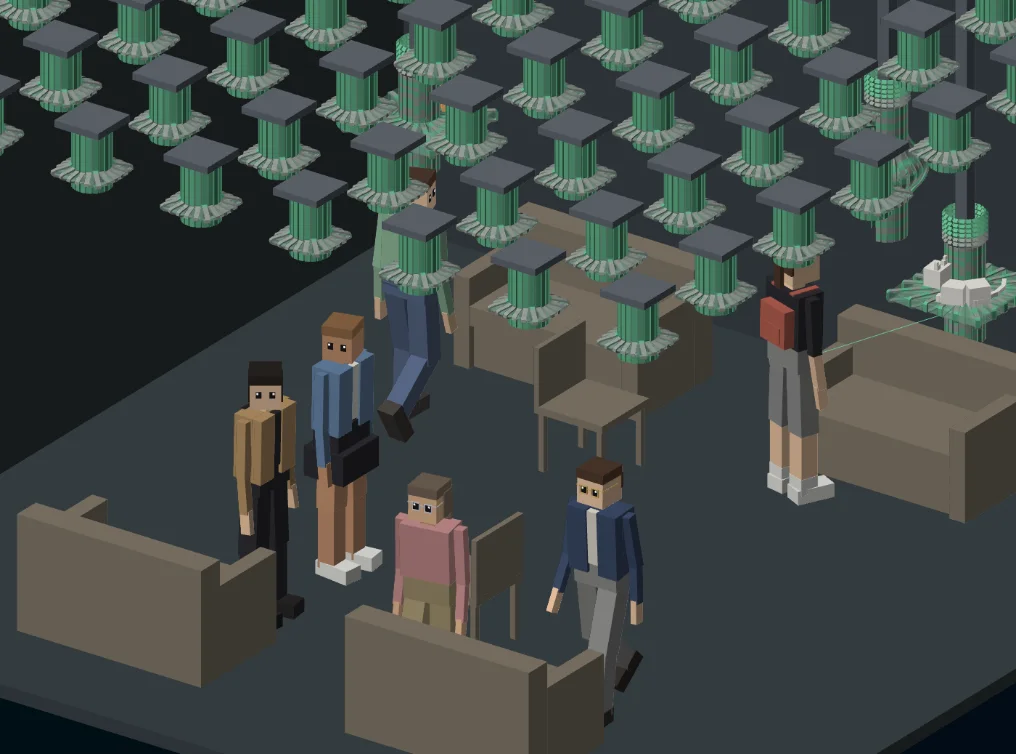
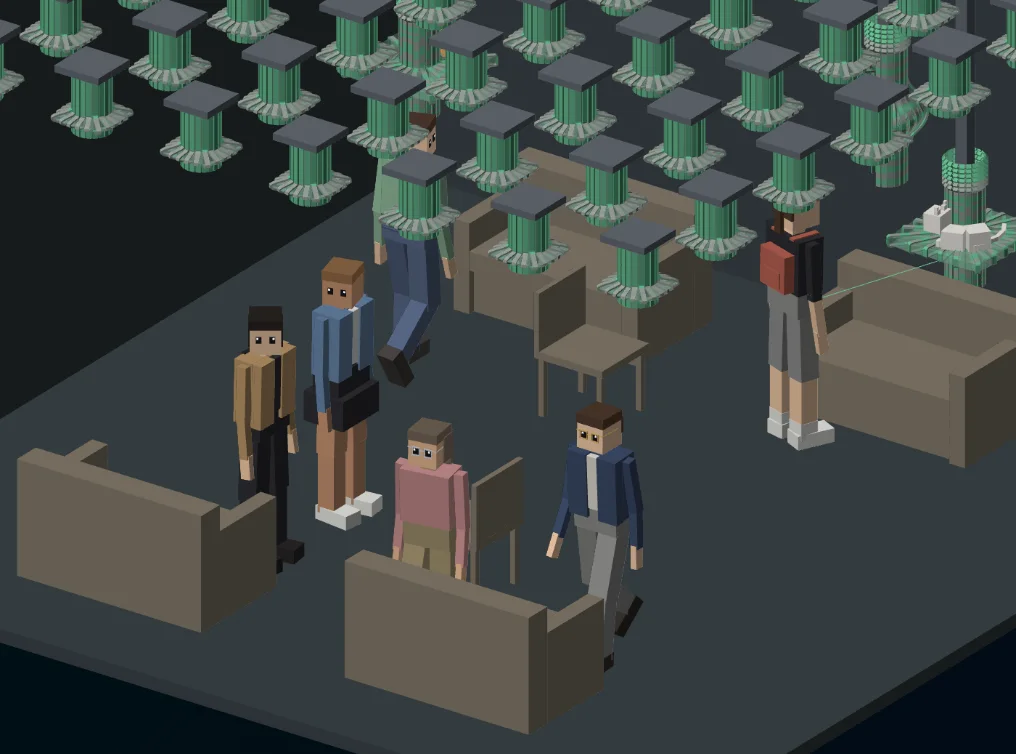
2-15 随机成形后重截案例页两组分镜、改图注
- room-cycle：第 140.8 秒左边沙发旁那台抽中了整圈两层，说明改口径
- two-uses：第 100 秒给猫落的三台都抽中了半圈有顶的两层，猫在其中一台的下台上，图注改写
- MAPPING §78.3、形态方案 §11.7 记录；正文「没有人坐的单元停在 1.05 m」留给作者

Claude-Session: https://claude.ai/code/session_01RPazAh7AdzGcm14zicAH7E

diff --git a/src/lib/site/case-frames.ts b/src/lib/site/case-frames.ts
@@ -188,7 +188,7 @@ export const CASE_FRAMES: Record<string, FrameSet> = {
       { file: 't011_45', t: { zh: '0:11.5', en: '0:11.5' }, note: { zh: '坐下，面前那台沿芯落下', en: 'they sit, and the unit in front comes down its core' } },
       { file: 't011_90', t: { zh: '0:11.9', en: '0:11.9' }, note: { zh: '落到茶几高度，收缩成形', en: 'at coffee-table height it contracts and forms' } },
       { file: 't012_50', t: { zh: '0:12.5', en: '0:12.5' }, note: { zh: '茶几成形', en: 'the coffee table has formed' } },
-      { file: 't140_80', t: { zh: '2:20.8', en: '2:20.8' }, note: { zh: '两人起身，桌子往上收。左边沙发上的人身边那台落成了上下两层', en: 'they stand, and the table rises; the unit beside the visitor on the left sofa has come down as two levels' } },
+      { file: 't140_80', t: { zh: '2:20.8', en: '2:20.8' }, note: { zh: '两人起身，桌子往上收。左边沙发上的人身边那台抽中了整圈两层', en: 'they stand, and the table rises. The unit beside the visitor on the left sofa came down as two levels all round' } },
       { file: 't142_60', t: { zh: '2:22.6', en: '2:22.6' }, note: { zh: '收回天花板下', en: 'back under the ceiling' } },
     ],
   },
@@ -200,8 +200,8 @@ export const CASE_FRAMES: Record<string, FrameSet> = {
     h: 536,
     tw: 1008,
     caption: {
-      zh: '侧视剖面（实验 2-15，第 100 秒）。沙发前落成茶几的单元台面离地 0.42 m，猫待的那台停在 1.05 m，坐着的人身边那台落成上下两层（下台 0.90 m，上台只盖背向他的那半边），其余单元收在天花板下',
-      en: 'Side section (Lab 2-15, at 100 s). A unit that came down as a coffee table in front of a sofa sits 0.42 m above the floor, the unit a cat is on stays at 1.05 m, a unit that came down beside a seated visitor has two levels (the lower at 0.90 m, the upper only over the half facing away from them), and the rest are stowed under the ceiling',
+      zh: '侧视剖面（实验 2-15，第 100 秒）。沙发前落成茶几的单元台面离地 0.42 m。给猫落的三台这一刻都抽中了半圈有顶的两层（下台 0.90 m），猫坐在其中一台的下台上。其余单元收在天花板下',
+      en: 'Side section (Lab 2-15, at 100 s). Units that came down as coffee tables in front of the sofas sit 0.42 m above the floor. The three units lowered for cats all drew two levels roofed over half (the lower at 0.90 m), and a cat sits on the lower platform of one of them. The rest are stowed under the ceiling',
     },
     frames: [{ file: 't100-side', t: { zh: '1:40 · 侧视', en: '1:40 · side view' } }],
   },

diff --git a/项目二_2-15单元形态方案.md b/项目二_2-15单元形态方案.md
@@ -343,5 +343,7 @@
 
 **实测**（种子 11–14，每场 600 s，`node scripts/cohabit/form-odds-probe.mjs 600 11,12,13,14`）：给猫落的台每场 57–59 次，平台 26–34、半圈有顶 13–25、整圈两层 5–10。同时最多 4–5 台两层，猫在两层台上 142–392 s（两只猫合计 1200 s）。上一轮只认坐着的人身边，是每场 11–22 次。两层的台按带逐条摆，同一条轨迹同一帧的带子合成一次画，同时四五台不加画的次数。
 
+**案例页**：分镜 room-cycle、two-uses 按原时刻重截，图注照新抽到的形改写（MAPPING §78.3）。正文「没有人坐的单元停在 1.05 m」现在只对平台成立，两层的下台在 0.90 m，正文没改，留给作者。
+
 **没做**：只成上台（要再算三条轨迹，后台多十来秒）· 台面倾斜（逐带配平偏移要另算轨迹）· 让平面模型知道有顶（那是规则那一轮，形一进读数，随机就成了对照里的一个变量）。
 
